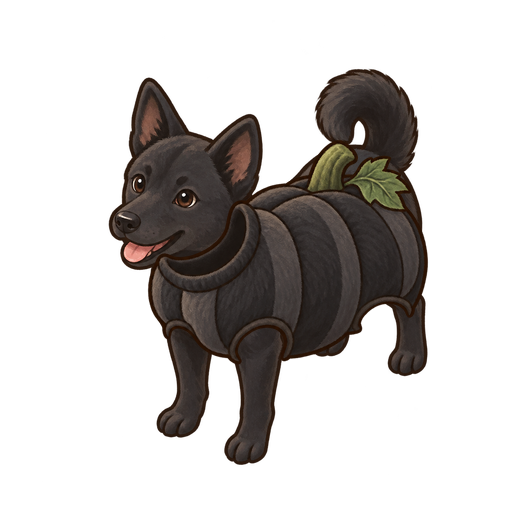
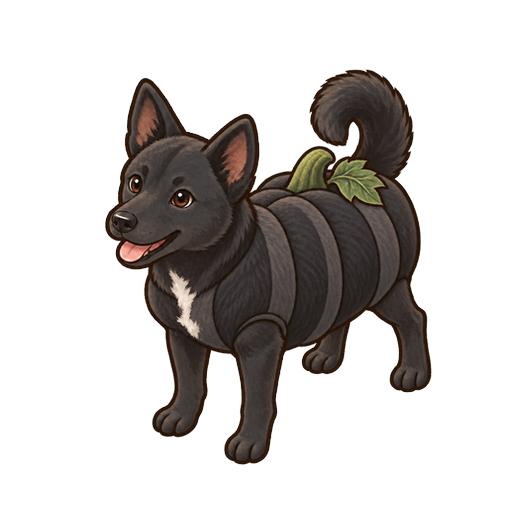
Sync kids pack from cottage 1538084; move the pumpkin clown suit to the overskirt slot
The pumpkin clown suit is worn over other clothes, so it now sits in the overskirt slot. Dolls save version 7 moves a suit worn in the top slot over to the overskirt slot. The pumpkin dogs' standing art is redrawn.

Claude-Session: https://claude.ai/code/session_01CSb8b3Rmb6WwEY5Nmr8Avy

diff --git a/vendor/rules/clothing.js b/vendor/rules/clothing.js
@@ -3,11 +3,11 @@
  *  下半身：內搭褲 → 下衣（短褲、長褲、裙子）→ 罩裙（背心裙、吊帶褲）；腳：襪子 → 鞋子；飾品（蝴蝶結、領帶）哪件衣服都能搭。 */
 export const SLOTS = ["innerTop", "top", "coat", "wrap", "leggings", "bottom", "overskirt", "socks", "shoes", "accessory"];
 export const SLOT_LABEL = { innerTop: "內搭衣", top: "上衣", coat: "外套", wrap: "罩衫", leggings: "內搭褲", bottom: "下衣", overskirt: "罩裙", socks: "襪子", shoes: "鞋子", accessory: "飾品" };
-/** 衣服的大類，以及它穿在哪一格。洋裝、南瓜小丑裝是連身的，放上衣格。 */
+/** 衣服的大類，以及它穿在哪一格。洋裝是連身的，放上衣格；南瓜小丑裝是套在衣服外面的，放罩裙格（裡面能穿上衣、洋裝）。 */
 export const CATEGORY_SLOT = {
-    camisole: "innerTop", tee: "top", tank: "top", hoodie: "top", shirt: "top", pajama_top: "top", boyfriend_shirt: "top", dress: "top", pumpkin_suit: "top", coat: "coat", apron: "wrap", cape: "wrap", scarf: "wrap",
-    leggings: "leggings", tights: "leggings", shorts: "bottom", pants: "bottom", wide_pants: "bottom", pajama_pants: "bottom", skirt: "bottom", pinafore: "overskirt", overalls: "overskirt", socks: "socks", shoes: "shoes", bowtie: "accessory", tie: "accessory",
+    camisole: "innerTop", tee: "top", tank: "top", hoodie: "top", shirt: "top", pajama_top: "top", boyfriend_shirt: "top", dress: "top", coat: "coat", apron: "wrap", cape: "wrap", scarf: "wrap",
+    leggings: "leggings", tights: "leggings", shorts: "bottom", pants: "bottom", wide_pants: "bottom", pajama_pants: "bottom", skirt: "bottom", pinafore: "overskirt", overalls: "overskirt", pumpkin_suit: "overskirt", socks: "socks", shoes: "shoes", bowtie: "accessory", tie: "accessory",
 };
-/** 放在上衣格、但下襬一路蓋到大腿的大類：穿了就算有穿下身（開門服儀、咖啡廳客人配衣服都看這個；web/dress.js 有同一份）。 */
+/** 下襬一路蓋到大腿的大類：穿了就算有穿下身（開門服儀、咖啡廳客人配衣服都看這個；web/dress.js 有同一份）。 */
 export const HIP_CATEGORIES = new Set(["dress", "boyfriend_shirt", "pumpkin_suit"]);
 //# sourceMappingURL=clothing.js.map

diff --git a/vendor/rules/restore.js b/vendor/rules/restore.js
@@ -8,8 +8,27 @@ export function restore(snapshot, content) {
     const loaded = snapshot;
     if (loaded.version !== 1)
         throw new Error(`不認得的存檔版本：${String(loaded.version)}`);
-    return { ...createInitialState(), ...migrateWorn(splitOutfits(mergeColorVariants(splitClothesColors(migrateShops(migrateUpstairs(migrateRooms(loaded), content)))), content), content), puzzle: migratePuzzle(loaded.puzzle) };
+    return { ...createInitialState(), ...migratePumpkinSuit(migrateWorn(splitOutfits(mergeColorVariants(splitClothesColors(migrateShops(migrateUpstairs(migrateRooms(loaded), content)))), content), content)), puzzle: migratePuzzle(loaded.puzzle) };
 }
+/** 南瓜小丑裝從上衣格搬到罩裙格（它是套在衣服外面的）：屋主、客人檔案、屋裡的客人身上穿的都搬。 */
+function migratePumpkinSuit(loaded) {
+    const moveWorn = (worn) => {
+        if (worn.top !== PUMPKIN_SUIT)
+            return worn;
+        const { top: _top, ...rest } = worn;
+        return { ...rest, overskirt: PUMPKIN_SUIT };
+    };
+    const moveAll = (record) => Object.fromEntries(Object.entries(record).map(([id, who]) => [id, { ...who, worn: moveWorn(who.worn) }]));
+    const out = { ...loaded };
+    if (loaded.worn)
+        out.worn = { atone: moveWorn(loaded.worn.atone), tsunu: moveWorn(loaded.worn.tsunu) };
+    if (loaded.visitorProfiles)
+        out.visitorProfiles = moveAll(loaded.visitorProfiles);
+    if (loaded.visitors)
+        out.visitors = moveAll(loaded.visitors);
+    return out;
+}
+const PUMPKIN_SUIT = "pumpkin_suit";
 /** 客房的門搬上樓：有客房、沒有二樓小客廳的存檔，補一間二樓（門接客廳），每間客房的門從原本那間搬到二樓。 */
 function migrateUpstairs(loaded, content) {
     const rooms = loaded.rooms;

diff --git a/test/dolls.test.js b/test/dolls.test.js
@@ -71,11 +71,22 @@ test("存檔帶版本號，讀回來一樣；沒有存檔就是空的", () => {
   assert.deepEqual(loadDolls(storage), { dolls: [], selected: null });
   const dolls = [doll()];
   saveDolls(storage, { dolls, selected: dolls[0].id });
-  assert.equal(JSON.parse(map.get(DOLLS_KEY)).version, 6);
+  assert.equal(JSON.parse(map.get(DOLLS_KEY)).version, 7);
   assert.deepEqual(loadDolls(storage), { dolls, selected: dolls[0].id });
 });
 
 test("新娃娃的預設嘴巴：那個素體的第一款", () => {
   assert.equal(doll().mouth, "kid_f_smile");
   assert.equal(doll({ body: "m" }).mouth, "kid_m_smile");
+});
+
+test("版本 6 的娃娃存檔：穿在上衣格的南瓜小丑裝搬到罩裙格，其他格不動", () => {
+  const map = new Map([[DOLLS_KEY, JSON.stringify({ version: 6, dolls: [
+    { id: "a", name: "甲", body: "f", worn: { top: "pumpkin_suit", bottom: "jeans_shorts", shoes: "shoes_gray" } },
+    { id: "b", name: "乙", body: "f", worn: { top: "tee_gray", bottom: "jeans_shorts" } },
+  ], selected: "a" })]]);
+  const storage = { getItem: (k) => map.get(k) ?? null, setItem: (k, v) => map.set(k, v) };
+  const { dolls } = loadDolls(storage);
+  assert.deepEqual(dolls[0].worn, { bottom: "jeans_shorts", shoes: "shoes_gray", overskirt: "pumpkin_suit" });
+  assert.deepEqual(dolls[1].worn, { top: "tee_gray", bottom: "jeans_shorts" });
 });

diff --git a/vendor/web/dress.js b/vendor/web/dress.js
@@ -4,8 +4,8 @@
 
 /** 衣服大類穿在哪一格（跟伺服器 src/catalog.ts 的 CATEGORY_SLOT 同一組）。 */
 export const CATEGORY_SLOT = {
-  camisole: "innerTop", tee: "top", tank: "top", hoodie: "top", shirt: "top", pajama_top: "top", boyfriend_shirt: "top", dress: "top", pumpkin_suit: "top", coat: "coat", apron: "wrap", cape: "wrap", scarf: "wrap",
-  leggings: "leggings", tights: "leggings", shorts: "bottom", pants: "bottom", wide_pants: "bottom", pajama_pants: "bottom", skirt: "bottom", pinafore: "overskirt", overalls: "overskirt", socks: "socks", shoes: "shoes", bowtie: "accessory", tie: "accessory",
+  camisole: "innerTop", tee: "top", tank: "top", hoodie: "top", shirt: "top", pajama_top: "top", boyfriend_shirt: "top", dress: "top", coat: "coat", apron: "wrap", cape: "wrap", scarf: "wrap",
+  leggings: "leggings", tights: "leggings", shorts: "bottom", pants: "bottom", wide_pants: "bottom", pajama_pants: "bottom", skirt: "bottom", pinafore: "overskirt", overalls: "overskirt", pumpkin_suit: "overskirt", socks: "socks", shoes: "shoes", bowtie: "accessory", tie: "accessory",
 };
 export const SLOT_LABEL = { innerTop: "內搭衣", top: "上衣", coat: "外套", wrap: "罩衫", leggings: "內搭褲", bottom: "下衣", overskirt: "罩裙", socks: "襪子", shoes: "鞋子", accessory: "飾品" };
 

diff --git a/src/dolls.js b/src/dolls.js
@@ -6,7 +6,7 @@ import { MERGED_CLOTHES, SPLIT_CLOTHES } from "../vendor/rules/restore.js";
 
 export const DOLLS_KEY = "dollhouse.dolls";
 export const MAX_DOLLS = 4;
-const VERSION = 6;
+const VERSION = 7;
 const START_SPOT = { room: "bedroom", x: 3, y: 4 };
 
 export function createDoll({ name, body, ...looks }, newId = () => crypto.randomUUID()) {
@@ -91,6 +91,15 @@ const MIGRATIONS = {
   4: splitSuits(5),   // 4 → 5：一件式制服 → 襯衫＋百褶裙＋蝴蝶結
   /** 5 → 6：舊的捲髮鮑伯頭跟捲捲短髮是同一個造型，併進捲捲短髮（「鮑伯頭」改指直髮的經典鮑伯）。 */
   5: (saved) => ({ ...saved, version: 6, dolls: saved.dolls.map((doll) => (doll.hair === "kid_bob" ? { ...doll, hair: "curly_short" } : doll)) }),
+  /** 6 → 7：南瓜小丑裝是套在衣服外面的，從上衣格搬到罩裙格（跟小屋的 migratePumpkinSuit 一樣）。 */
+  6: (saved) => ({
+    ...saved, version: 7,
+    dolls: saved.dolls.map((doll) => {
+      if (doll.worn.top !== "pumpkin_suit") return doll;
+      const { top: _top, ...rest } = doll.worn;
+      return { ...doll, worn: { ...rest, overskirt: "pumpkin_suit" } };
+    }),
+  }),
 };
 
 export function loadDolls(storage, clothes = {}) {
